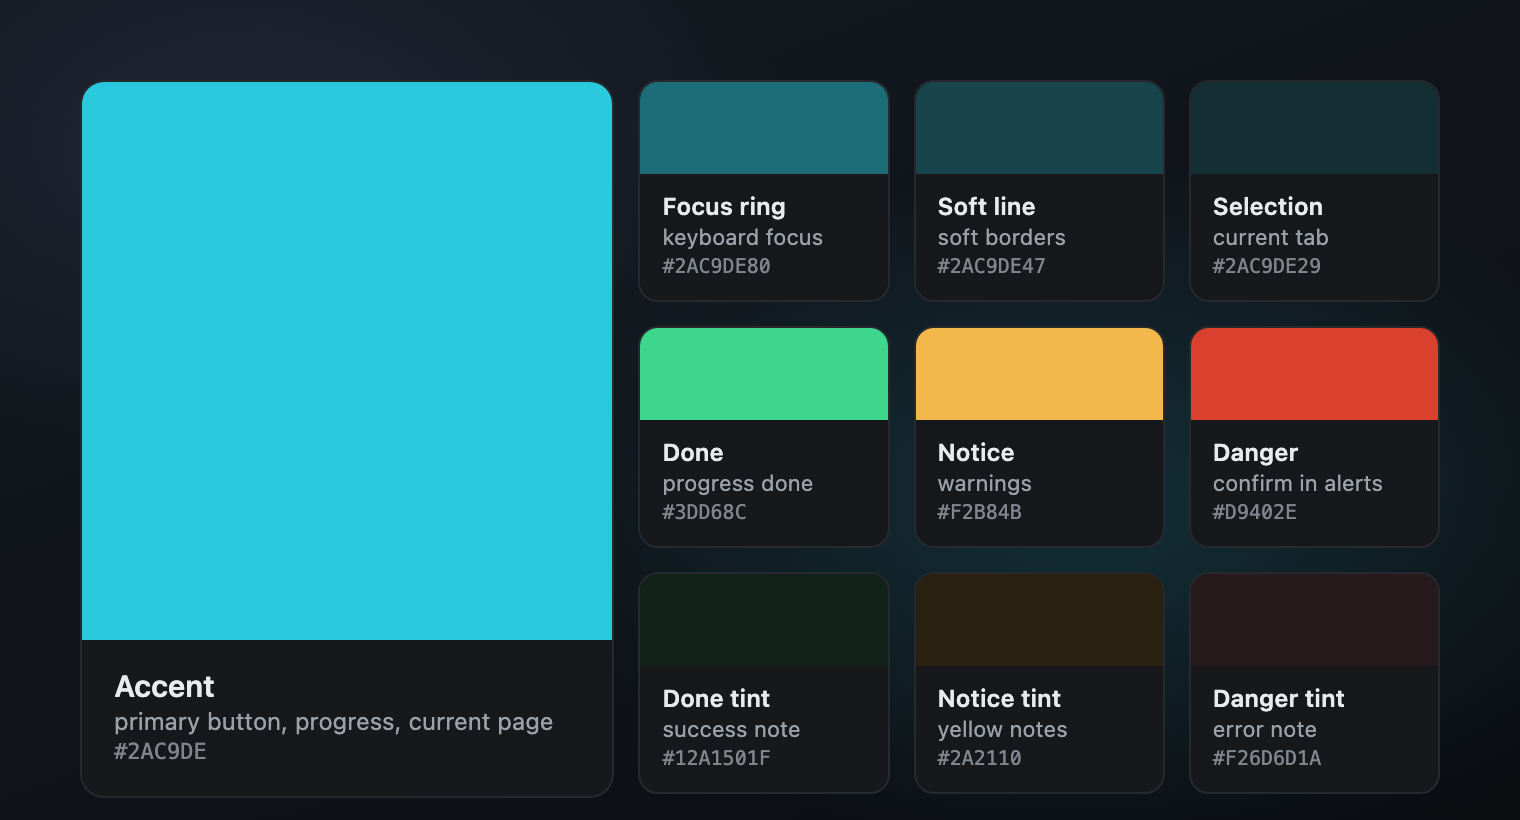
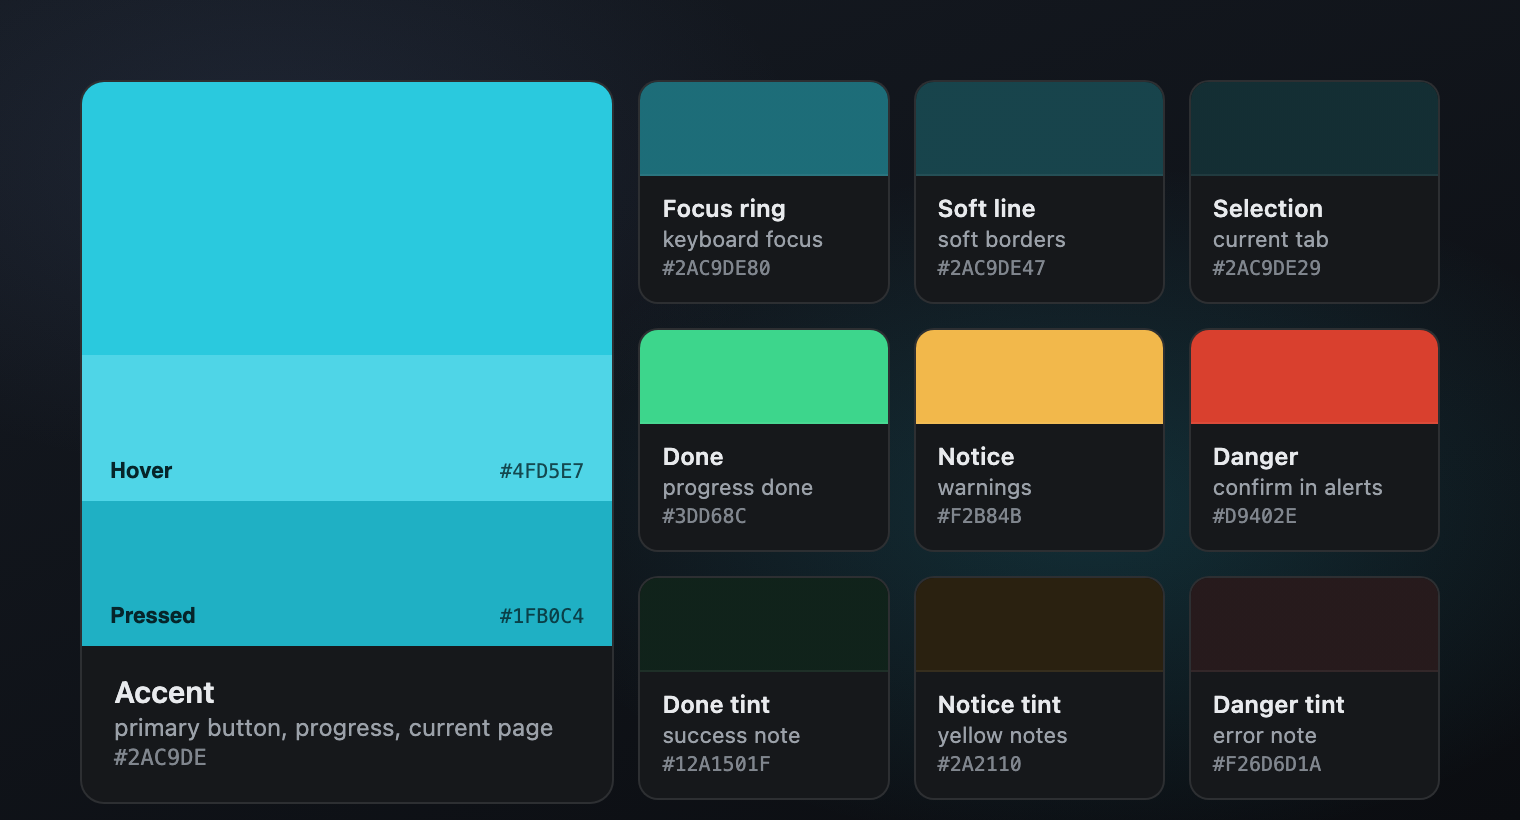
Design page colours: faint white edges on every card; the accent with its hover and pressed tones

diff --git a/docs/guide/deep-dives/design.md b/docs/guide/deep-dives/design.md
@@ -48,7 +48,7 @@ Every screen was then drawn against a design system built first: colours, type, 
 
 ### Colour
 
-![The accent; its focus ring, soft line and selection; the done, notice and danger colours and their tints](../img/v2/ds-colours-dark.png){ .au }
+![The accent with its hover and pressed tones; its focus ring, soft line and selection; the done, notice and danger colours and their tints](../img/v2/ds-colours-dark.png){ .au }
 
 - **One accent, one meaning.** Cyan says "AnimeUp is working" or "this is the way forward": the primary button, the progress, the current page. It's never decoration.
 - **Status always comes in three**: a text colour, a tint and a line. Green is done, yellow is worth a look, red is stopped or failed. A status is never colour alone: it always has a word and, where it fits, an icon.
